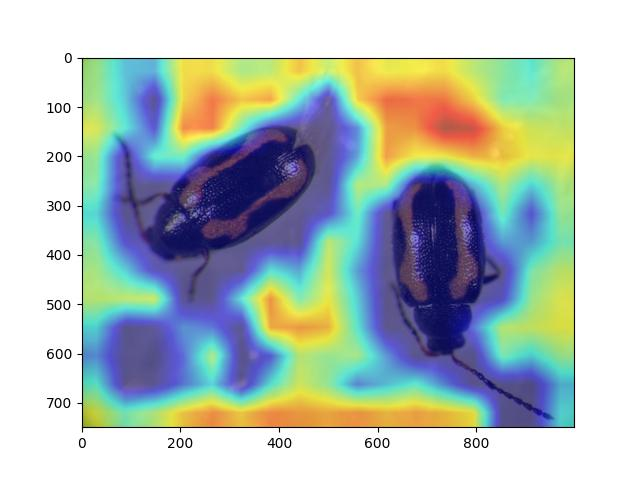
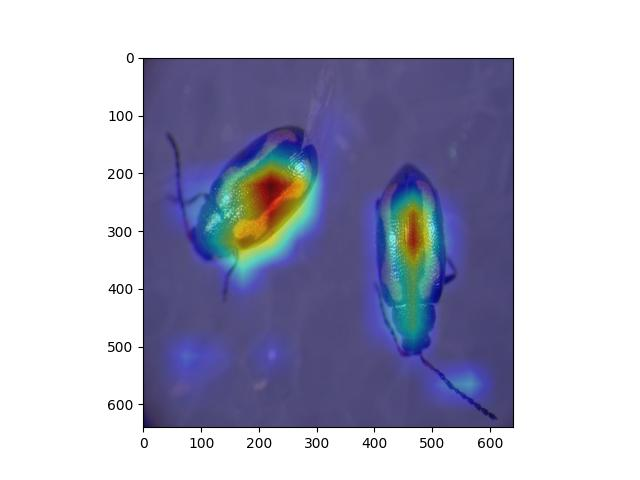
Add files via upload

diff --git a/Ultilities/Grad-FasterRCNN/faster_rcnn_no_bb.py b/Ultilities/Grad-FasterRCNN/faster_rcnn_no_bb.py
@@ -63,8 +63,9 @@ if __name__ == '__main__':
     from PIL import Image
 
     image_path = "images/IP038000453.jpg"  # Path to your image
-    image = np.array(Image.open(image_path))  # Read image as a NumPy array
-    image_float_np = np.float32(image) / 255  # Normalize pixel values (0 to 1)
+    image = Image.open(image_path)  # Open the image using PIL
+    image = image.resize((640, 640))  # Resize the image to 640x640
+    image_float_np = np.array(image).astype(np.float32) / 255  # Convert to NumPy array and normalize pixel values (0 to 1)
 
     # Define the torchvision image transforms
     transform = torchvision.transforms.Compose([
